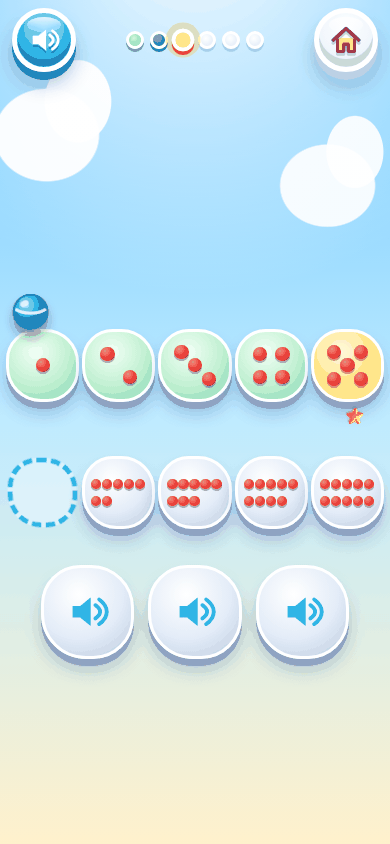
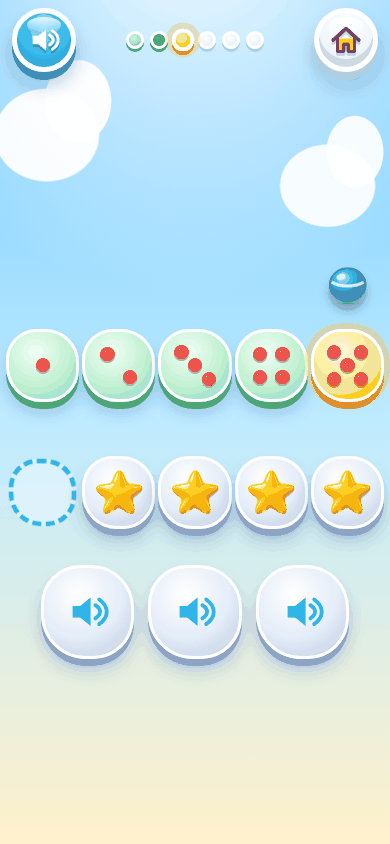
2.0 K Numbers Unit 2: island rule (Mendy demo shows a said-twice mistake, first rounds are skips; bonuses only to fifteen after a teaching count; 6-10 stones are plain stars you tap to hear; the opener shows the go arrow)
Claude-Session: https://claude.ai/code/session_01CJTs1dnXnBrhVCHk7oBxFz

diff --git a/v2/app/k-numbers/unit2.js b/v2/app/k-numbers/unit2.js
@@ -13,11 +13,11 @@
     '.u2stone .dd i{ width:18.5%; aspect-ratio:1; border-radius:50%; flex:none; }',
     '.u2stone.glowme{ box-shadow:0 7px 0 #C98A00, 0 0 0 8px rgba(255,201,61,.85), 0 0 22px 8px rgba(255,201,61,.7); animation:u2gap 1s infinite; }',
     '.u2stone.redmark{ box-shadow:0 7px 0 #C0392B, 0 0 0 6px rgba(255,90,78,.55) !important; }',
-    '.u2stone svg.hear{ width:52%; height:52%; }',
+    '.u2stone svg.hear{ width:52% !important; height:52% !important; }',
     '.u2stone .dd i, .u2stone .dice i{ background:radial-gradient(circle at 35% 30%,#FF9B8A,#E5322D 55%,#8E0E17); box-shadow:0 2px 0 rgba(90,0,10,.35); }',
     '.u2stone .dice{ position:absolute; inset:8%; } .u2stone .dice i{ position:absolute; width:25%; aspect-ratio:1; border-radius:50%; transform:translate(-50%,-50%); }',
     '.u2stone.gap .dice{ display:none; }',
-    '.u2stone.star .dd{ display:flex; align-items:center; justify-content:center; } .u2stone.star svg{ width:56%; height:56%; }',
+    '.u2stone.star .dd{ display:flex; align-items:center; justify-content:center; inset:14%; } .u2stone.star svg{ width:100%; height:100%; }',
     '.u2stone.lit{ background:radial-gradient(circle at 40% 30%,#FFFBE0,#FFE27A 60%,#F4B400); box-shadow:0 7px 0 #C98A00, 0 0 0 6px rgba(255,201,61,.5); }',
     '.u2stone.been{ background:radial-gradient(circle at 40% 30%,#F1FFF5,#BDEFCF 60%,#7DD3A0); box-shadow:0 7px 0 #4FA674, 0 12px 16px rgba(40,70,140,.2); }',
     '.u2stone.gap{ background:rgba(255,255,255,.35); border:5px dashed #2FB5E8; box-shadow:none; animation:u2gap 1s infinite; }',
@@ -47,11 +47,11 @@
   /* dots: 1-5 as big dice faces (seen at a glance, Unit 1's shapes); 6-10 as "five and some more": 5 on top, the rest below */
   var DICE = { 1: [[50, 50]], 2: [[30, 30], [70, 70]], 3: [[26, 26], [50, 50], [74, 74]], 4: [[30, 30], [70, 30], [30, 70], [70, 70]], 5: [[26, 26], [74, 26], [50, 50], [26, 74], [74, 74]] };
   U2.dots = function (n) {
-    if (n === 0) return ''; if (n > 10 || n < 1) return '<span class="dd"><svg viewBox="0 0 100 100"><use href="#nkStar"/></svg></span>';
+    if (n === 0) return ''; if (n > 5 || n < 1) return '<span class="dd"><svg viewBox="0 0 100 100"><use href="#nkStar"/></svg></span>';
     if (n <= 5) return '<span class="dice">' + DICE[n].map(function (p) { return '<i style="left:' + p[0] + '%;top:' + p[1] + '%"></i>'; }).join('') + '</span>';
     var h = '<span class="dd"><b>'; for (var i = 0; i < 5; i++) h += '<i></i>'; h += '</b><b>'; for (i = 0; i < n - 5; i++) h += '<i></i>'; return h + '</b></span>';
   };
-  U2.stone = function (n) { var s = document.createElement('div'); s.className = 'u2stone' + (n > 10 ? ' star' : ''); s.dataset.n = n; s.innerHTML = U2.dots(n); return s; };
+  U2.stone = function (n) { var s = document.createElement('div'); s.className = 'u2stone' + (n > 5 ? ' star' : ''); s.dataset.n = n; s.innerHTML = U2.dots(n); return s; };
 
   /* the path: numbers from..to (or to..from when reverse) */
   U2.path = function (el, o) {
@@ -67,7 +67,7 @@
       if (hop) { ball.classList.remove('hop'); void ball.offsetWidth; ball.classList.add('hop'); NK.sound.pop(); }
       stones.forEach(function (x, k) { x.classList.toggle('lit', k === i); if (k < i && k >= (api.lo || 0) && !x.classList.contains('gap')) x.classList.add('been'); });
     };
-    api.reset = function () { stones.forEach(function (x) { x.className = 'u2stone' + (+x.dataset.n > 10 ? ' star' : ''); x.innerHTML = U2.dots(+x.dataset.n); }); api.lo = null; api.place(-1); };
+    api.reset = function () { stones.forEach(function (x) { x.className = 'u2stone' + (+x.dataset.n > 5 ? ' star' : ''); x.innerHTML = U2.dots(+x.dataset.n); }); api.lo = null; api.place(-1); };
     api.gap = function (i) { stones[i].classList.add('gap'); stones[i].classList.remove('lit', 'been'); };
     api.fill = function (i) { stones[i].classList.remove('gap'); };
     addEventListener('resize', function () { if (api.at >= 0) api.place(api.at); });
@@ -76,7 +76,7 @@
   /* count along the path from stone a to stone b (inclusive), saying each number */
   U2.countAlong = async function (P, a, b, gapStop) {
     if (P.lo == null || a < P.lo) P.lo = a;   /* stones before where we started stay plain */
-    for (var i = a; i <= b; i++) { if (gapStop && P.stones[i].classList.contains('gap')) return i; P.place(i, true); await FR.say(FR.Word(P.nums[i]) + (i === b ? '.' : ','), { noRepeat: true }); }
+    for (var i = a; i <= b; i++) { if (gapStop && P.stones[i].classList.contains('gap')) return i; P.place(i, true); await FR.say(U2.Word(P.nums[i]) + (i === b ? '.' : ','), { noRepeat: true }); }
     return -1;
   };
   U2.word = function (n) { var w = ['zero', 'one', 'two', 'three', 'four', 'five', 'six', 'seven', 'eight', 'nine', 'ten', 'eleven', 'twelve', 'thirteen', 'fourteen', 'fifteen', 'sixteen', 'seventeen', 'eighteen', 'nineteen', 'twenty']; return w[n] || String(n); };
@@ -127,11 +127,17 @@
       id: o.id, title: o.title, rounds: o.rounds, hero: o.hero, endSay: o.endSay, chant: o.chant, bonusSay: o.bonus && o.bonus.say,
       init: function (F) {
         F.dragTap({ sources: '#loose .u2stone', targets: '#path .u2stone.gap', drop: drop });
-        document.addEventListener('pointerdown', function (e) { var s = e.target.closest('#loose .u2stone'); if (s && GAME.phase === 'answer') { NK.hush(); NK.say(U2.Word(+s.dataset.n) + '!', { noRepeat: true }); } });
+        document.addEventListener('pointerdown', function (e) { var s = e.target.closest('#loose .u2stone, #path .u2stone:not(.gap)'); if (s && GAME.phase === 'answer') { NK.hush(); NK.say(U2.Word(+s.dataset.n) + '!', { noRepeat: true }); } });
         if (o.init) o.init(F);
       },
       demo: o.demo ? async function (F) { await o.demo(F, function (pl) { return setup(pl); }); } : null,
-      bonus: o.bonus ? function (F) { var b = Object.assign({}, o.bonus); delete b.say; return round(F, 9, b); } : null,
+      bonus: o.bonus ? async function (F) {
+        var b = Object.assign({}, o.bonus); delete b.say;
+        /* island rule: before a count past ten, the voice counts it once to teach the new words */
+        GAME.phase = 'busy'; F.lock(true); var T = U2.path($('path'), { from: b.from, to: b.to, reverse: o.reverse }); $('loose').innerHTML = '';
+        await F.say('Listen to the new numbers first.'); await U2.countAlong(T, 0, T.nums.length - 1); await F.say('Now you!');
+        return round(F, 9, b);
+      } : null,
       /* a missed round adds a short, easier round (1-5) right after it; the main rounds stay the same */
       round: async function (F, i) {
         var r = await round(F, i, o.plan(i));

diff --git a/v2/app/k-numbers/skip.html b/v2/app/k-numbers/skip.html
@@ -45,7 +45,8 @@
     if (kind === 'swap') { var t = w[at]; w[at] = w[at + 1]; w[at + 1] = t; }
     return w;
   }
-  var PLAN = [{ len: 5, kind: 'skip', at: 3 }, { len: 5, kind: 'none' }, { len: 6, kind: 'twice', at: 3 }, { len: 6, kind: 'swap', at: 2 }];
+  /* island rule: only mistakes the demo showed (skipping a number, saying one twice); the first two rounds are skips */
+  var PLAN = [{ len: 5, kind: 'skip', at: 3 }, { len: 5, kind: 'skip', at: 2 }, { len: 5, kind: 'twice', at: 3 }, { len: 5, kind: 'none' }];
   function bubble(i) { var b = document.createElement('div'); b.className = 'said'; b.innerHTML = '<span class="u2mini">' + U2.dots(R.w[i]) + '</span>'; P.stones[i].appendChild(b); }
   async function count(F) {
     P.reset(); P.stones.forEach(function (s) { s.classList.add('tapme'); });
@@ -101,6 +102,12 @@
       P = U2.path($('path'), { from: 1, to: 4 }); R = { who: 'Mendy', kind: 'skip', w: words(4, 'skip', 2), bad: 2, misses: 0 };
       await F.say('Mendy counts. Did he make a mistake?'); await count(F);
       await F.say('Look! He said four on the three stone.');
+      await F.handTo(P.stones[2]); await F.handTap(); NK.sound.yes();
+      await showRight(F);
+      /* the second kind of mistake: saying a number twice */
+      P = U2.path($('path'), { from: 1, to: 4 }); R = { who: 'Mendy', kind: 'twice', w: words(4, 'twice', 2), bad: 2, misses: 0 };
+      await F.say('Now Mendy says a number twice. Listen!'); await count(F);
+      await F.say('Two, two! He said two twice.');
       await F.handTo(P.stones[2]); await F.handTap(); NK.sound.yes();
       await showRight(F); await F.handTo($('ok')); await F.say('No mistake? Tap thumbs up.');
     },

diff --git a/v2/app/k-numbers/jump.html b/v2/app/k-numbers/jump.html
@@ -94,7 +94,9 @@
       await F.say('I heard three. I stop!'); await F.handTo($('check')); await F.handTap();
       await F.yes(P.stones[2], 'Three! Yes!');
     },
-    bonus: function (F) { return round(F, 9, { from: 11, to: 20, t: 15 }); },
+    bonus: async function (F) {   /* island rule: the voice counts past ten once before he does */
+      GAME.phase = 'busy'; F.lock(true); P = U2.path($('path'), { from: 6, to: 15 }); await F.say('Listen to the new numbers first.'); await U2.countAlong(P, 0, 9);
+      return round(F, 9, { from: 6, to: 15, t: 13 }); },
     /* a missed round adds a short, easier round (1-5) right after it; the main rounds stay the same */
     round: async function (F, i) {
       var pl = i < 2 ? { from: 1, to: 5, t: [3, 5][i] } : { from: 1, to: 10, t: [6, 8, 10][i - 2] };

diff --git a/v2/app/k-numbers/opener2.html b/v2/app/k-numbers/opener2.html
@@ -59,7 +59,9 @@
       return new Promise(async function (res) {
         GAME.phase = 'busy'; F.lock(true); $('go').classList.remove('on');
         await SLIDES[i](F);
-        done = res; GAME.phase = 'answer'; GAME.right = function () { return [{ tap: '#go' }]; }; GAME.wrong = null; F.lock(false); $('go').classList.add('on');
+        $('go').classList.add('on');
+        if (i === 0) { await F.handTo($('go')); await F.say('Tap the arrow to go on.'); F.handHide(); }   /* island rule: show the arrow the first time */
+        done = res; GAME.phase = 'answer'; GAME.right = function () { return [{ tap: '#go' }]; }; GAME.wrong = null; F.lock(false);
       });
     }
   });

diff --git a/v2/app/k-numbers/next.html b/v2/app/k-numbers/next.html
@@ -28,7 +28,7 @@ U2.gapGame({
     if (i < 2) return [{ from: 1, to: 5, startN: 1, gapN: 3 }, { from: 1, to: 5, startN: 2, gapN: 5 }][i];
     var P = [[1, 6], [4, 8], [3, 9], [6, 10]][i - 2]; return { from: 1, to: 10, startN: P[0], gapN: P[1], say: i >= 3 ? 'Now we start at ' + U2.word(P[0]) + '.' : null };
   },
-  bonus: { from: 11, to: 20, startN: 14, gapN: 18, say: 'Bonus! Past ten. Big numbers!' },
+  bonus: { from: 6, to: 15, startN: 9, gapN: 13, say: 'Bonus! Past ten. Big numbers!' },
   demo: async function (F, setup) {
     var x = setup({ from: 1, to: 5, startN: 1, gapN: 4 });
     await F.say('Stones in order. One stone is missing.');
